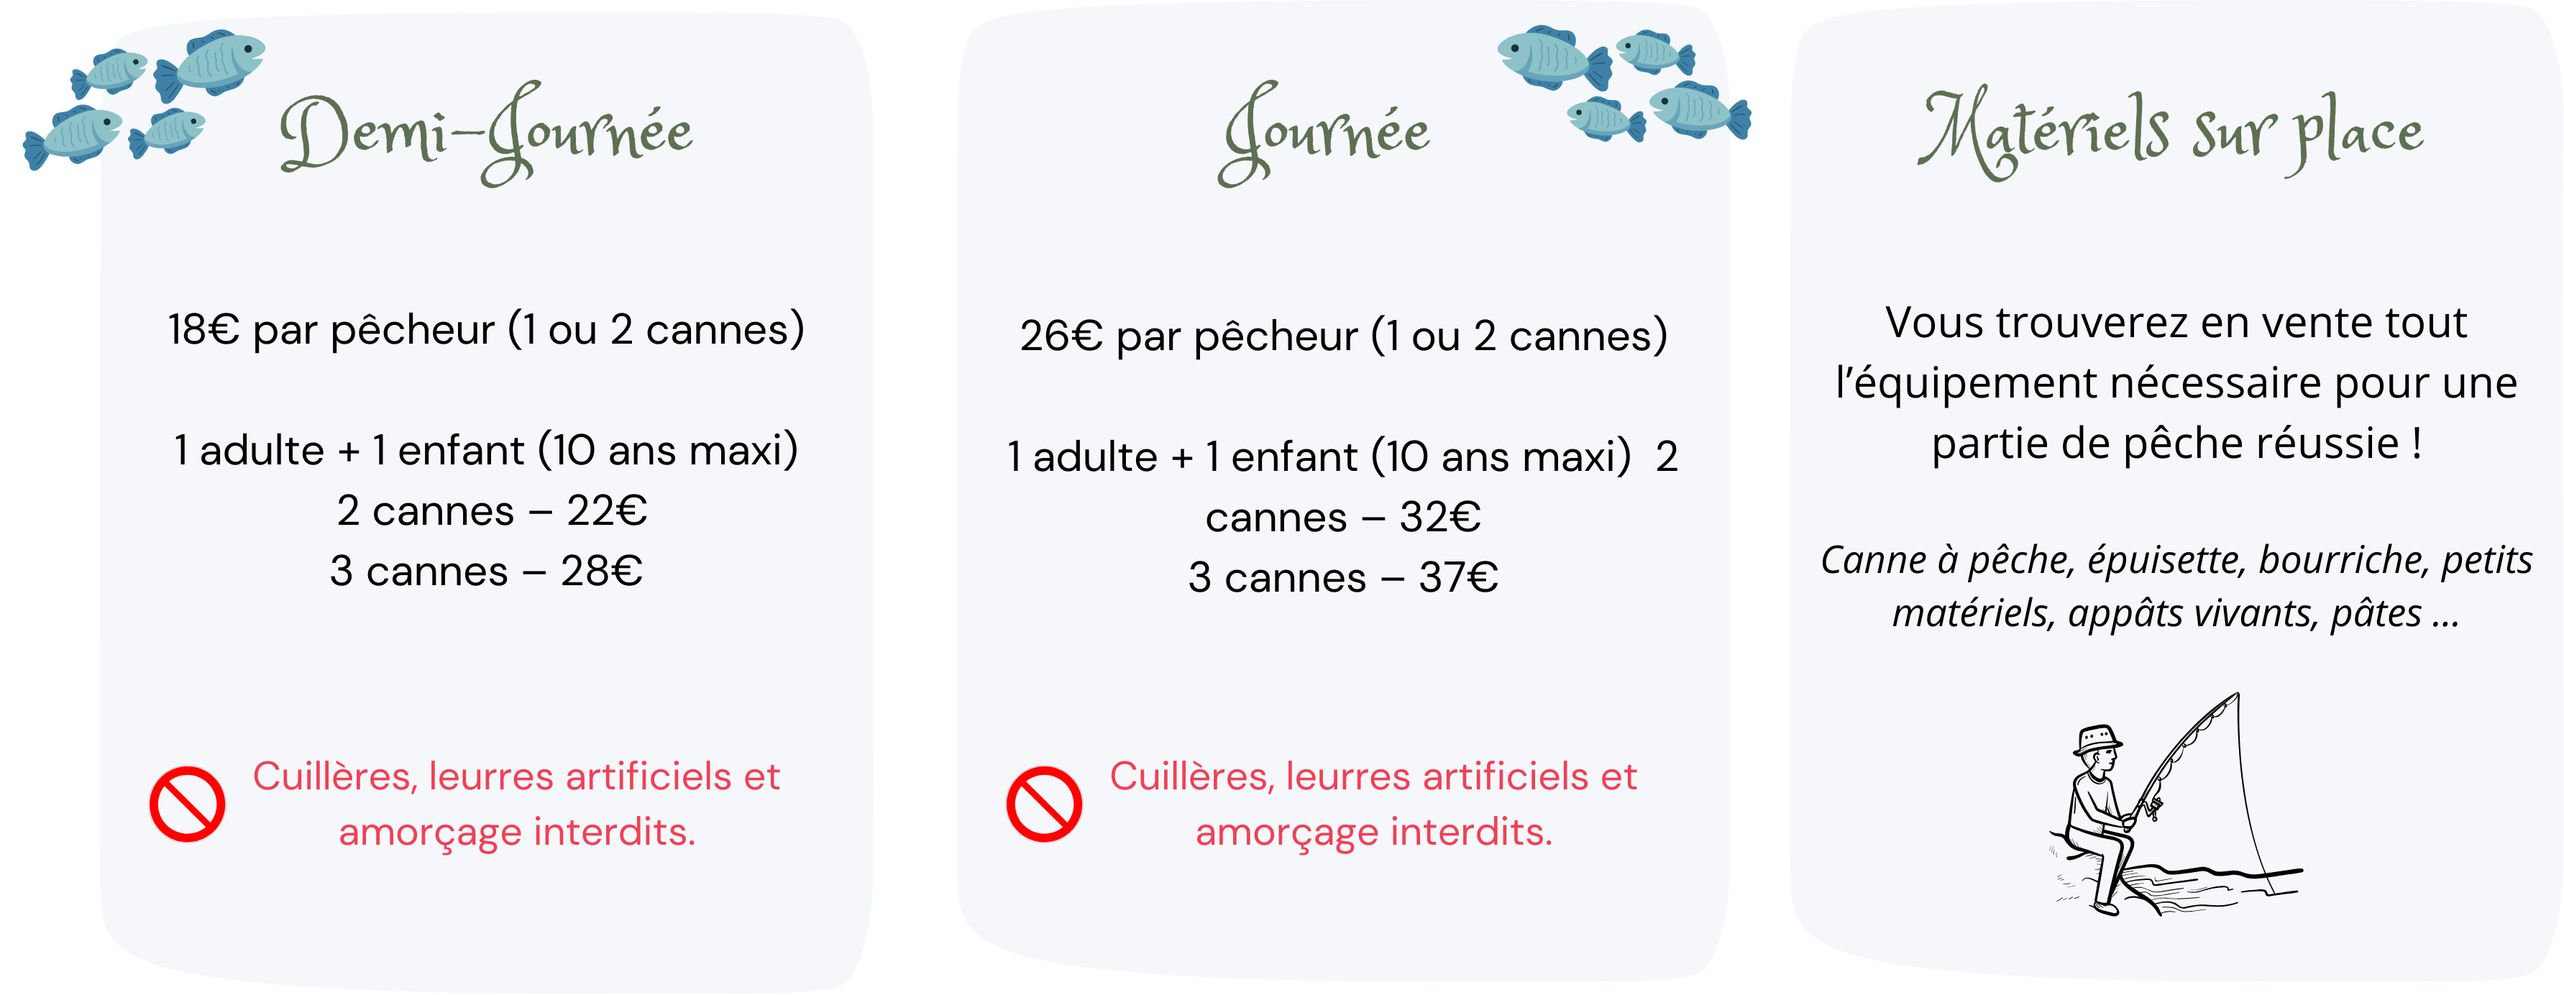
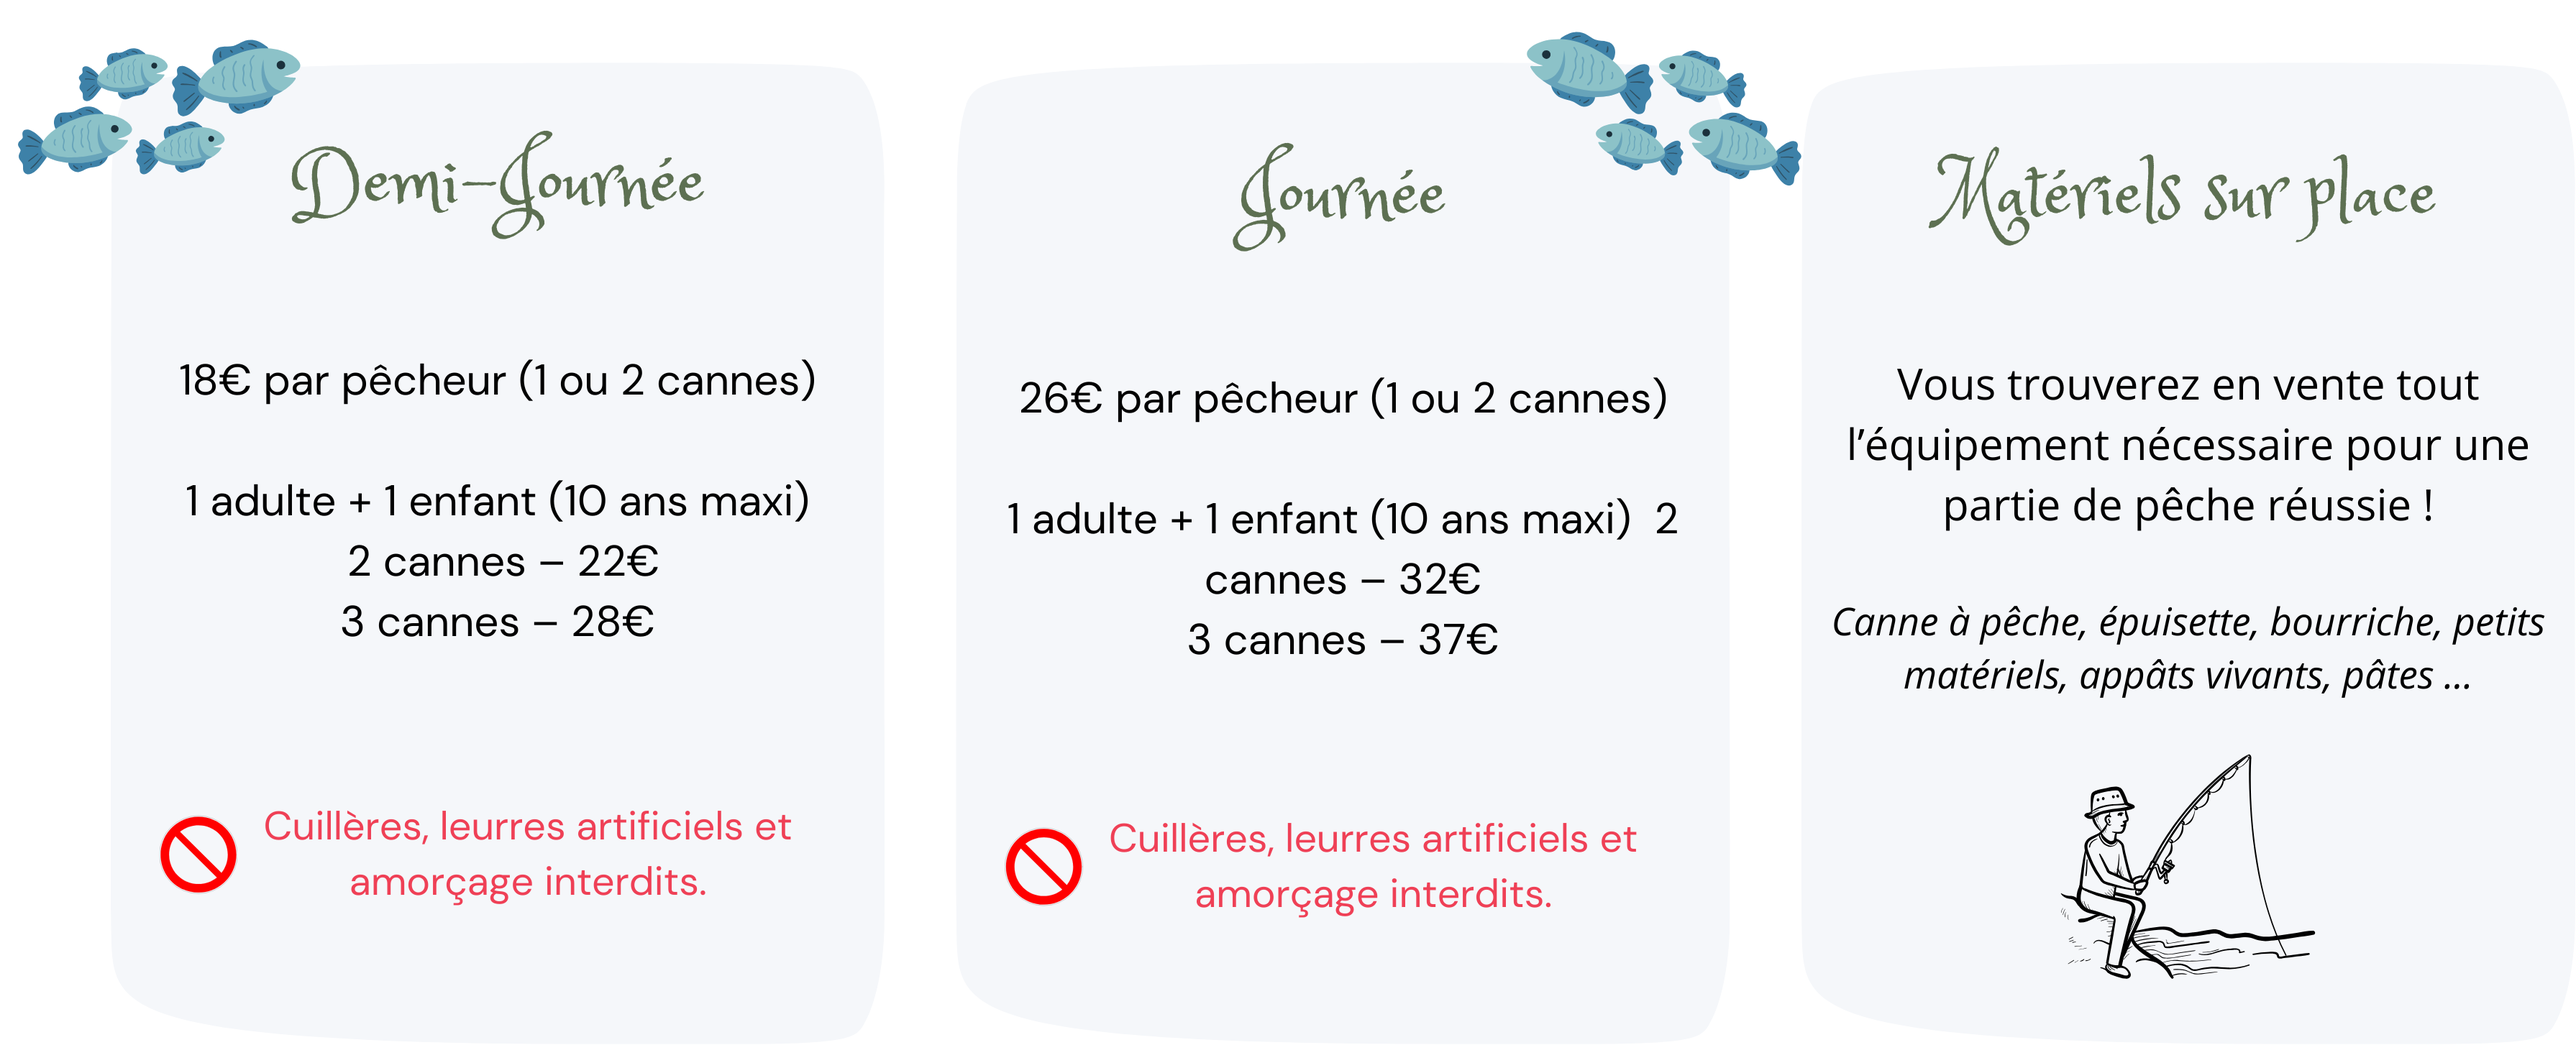
modif taille h1 h2

diff --git a/src/Styles/Pêche/Tarif.css b/src/Styles/Pêche/Tarif.css
@@ -6,8 +6,9 @@
 
 .article-Tarif img {
     width: 68%; /* Ajustez la taille de l'image selon vos besoins */
+    margin-bottom: 25px;
 }
 
 .titre-tarif {
-    font-size: 35px;
+    font-size: 32px;
 }

diff --git a/src/Styles/Recettes/CarousselRecette.css b/src/Styles/Recettes/CarousselRecette.css
@@ -68,7 +68,7 @@
 
 h2 {
   text-align: center;
-  font-size: 35px;
+  font-size: 32px;
   font-family: "Salsa", cursive;
 }
 
